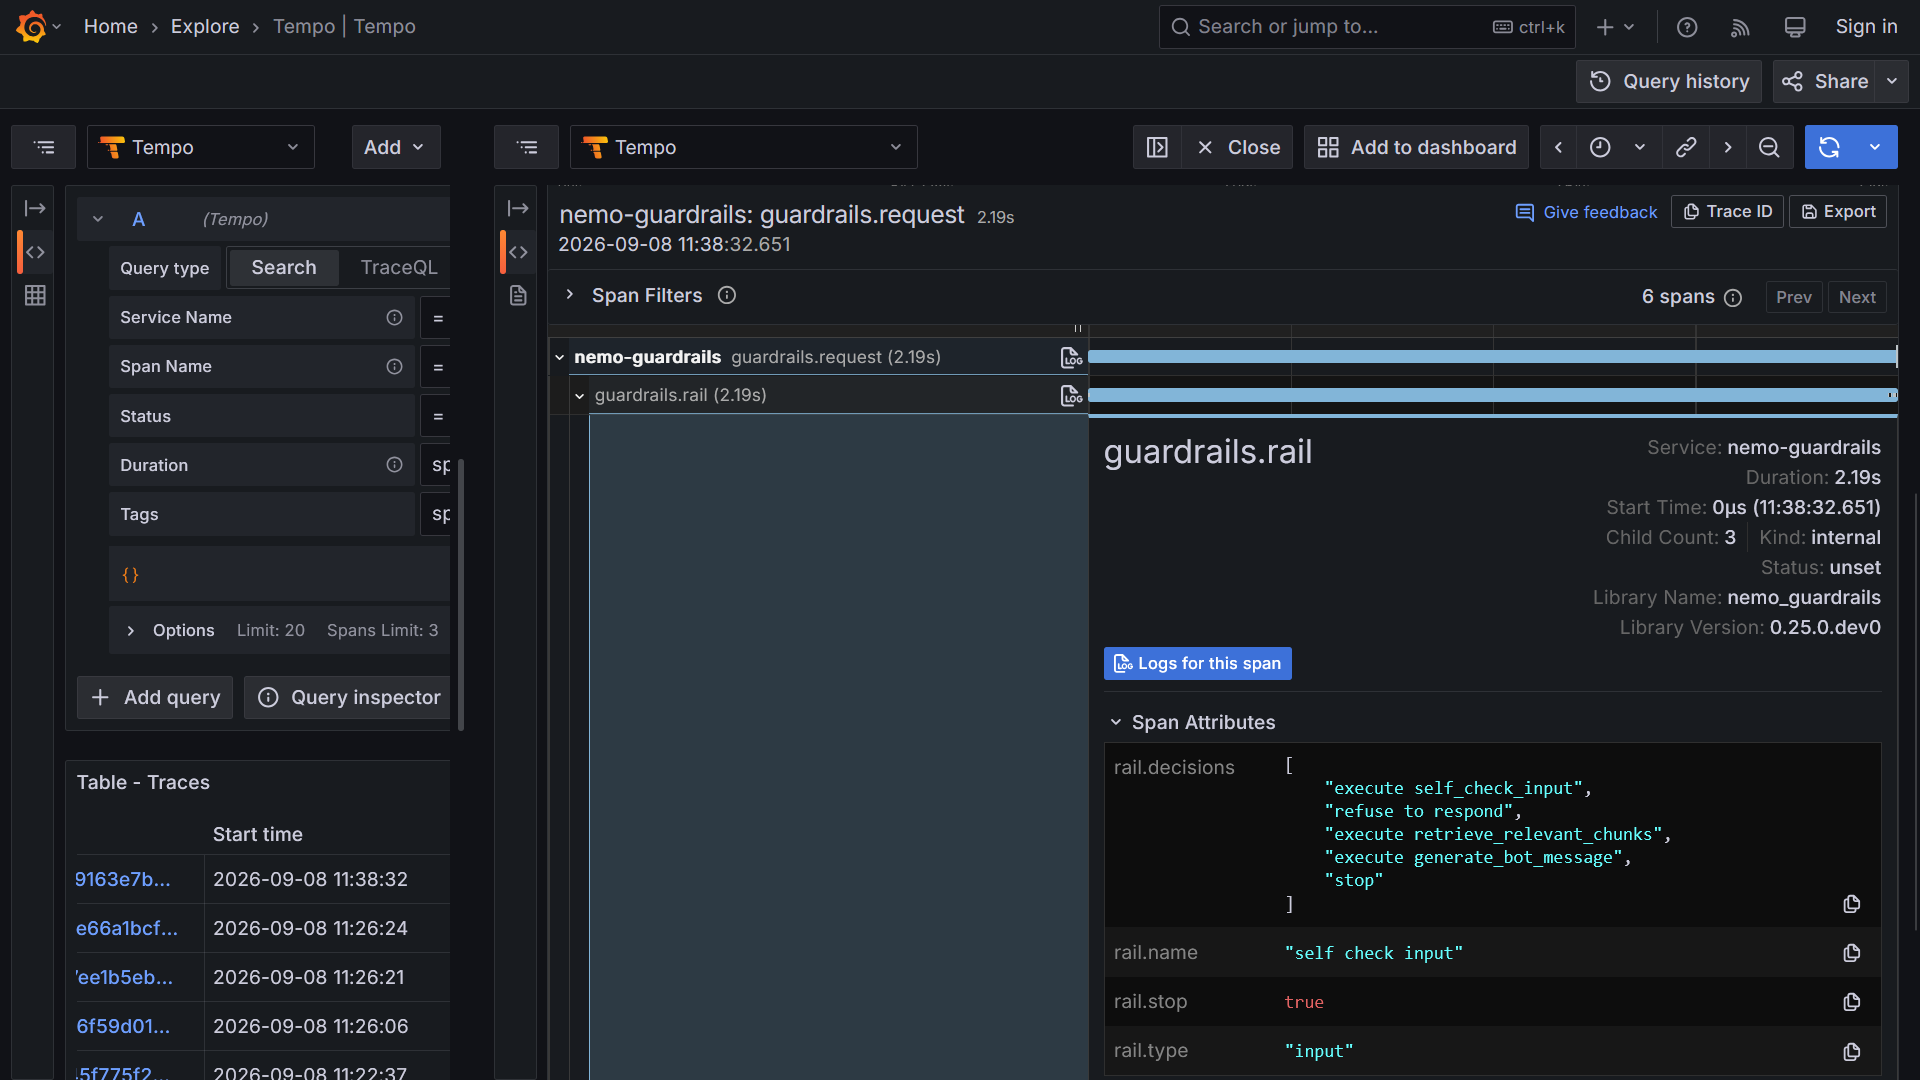
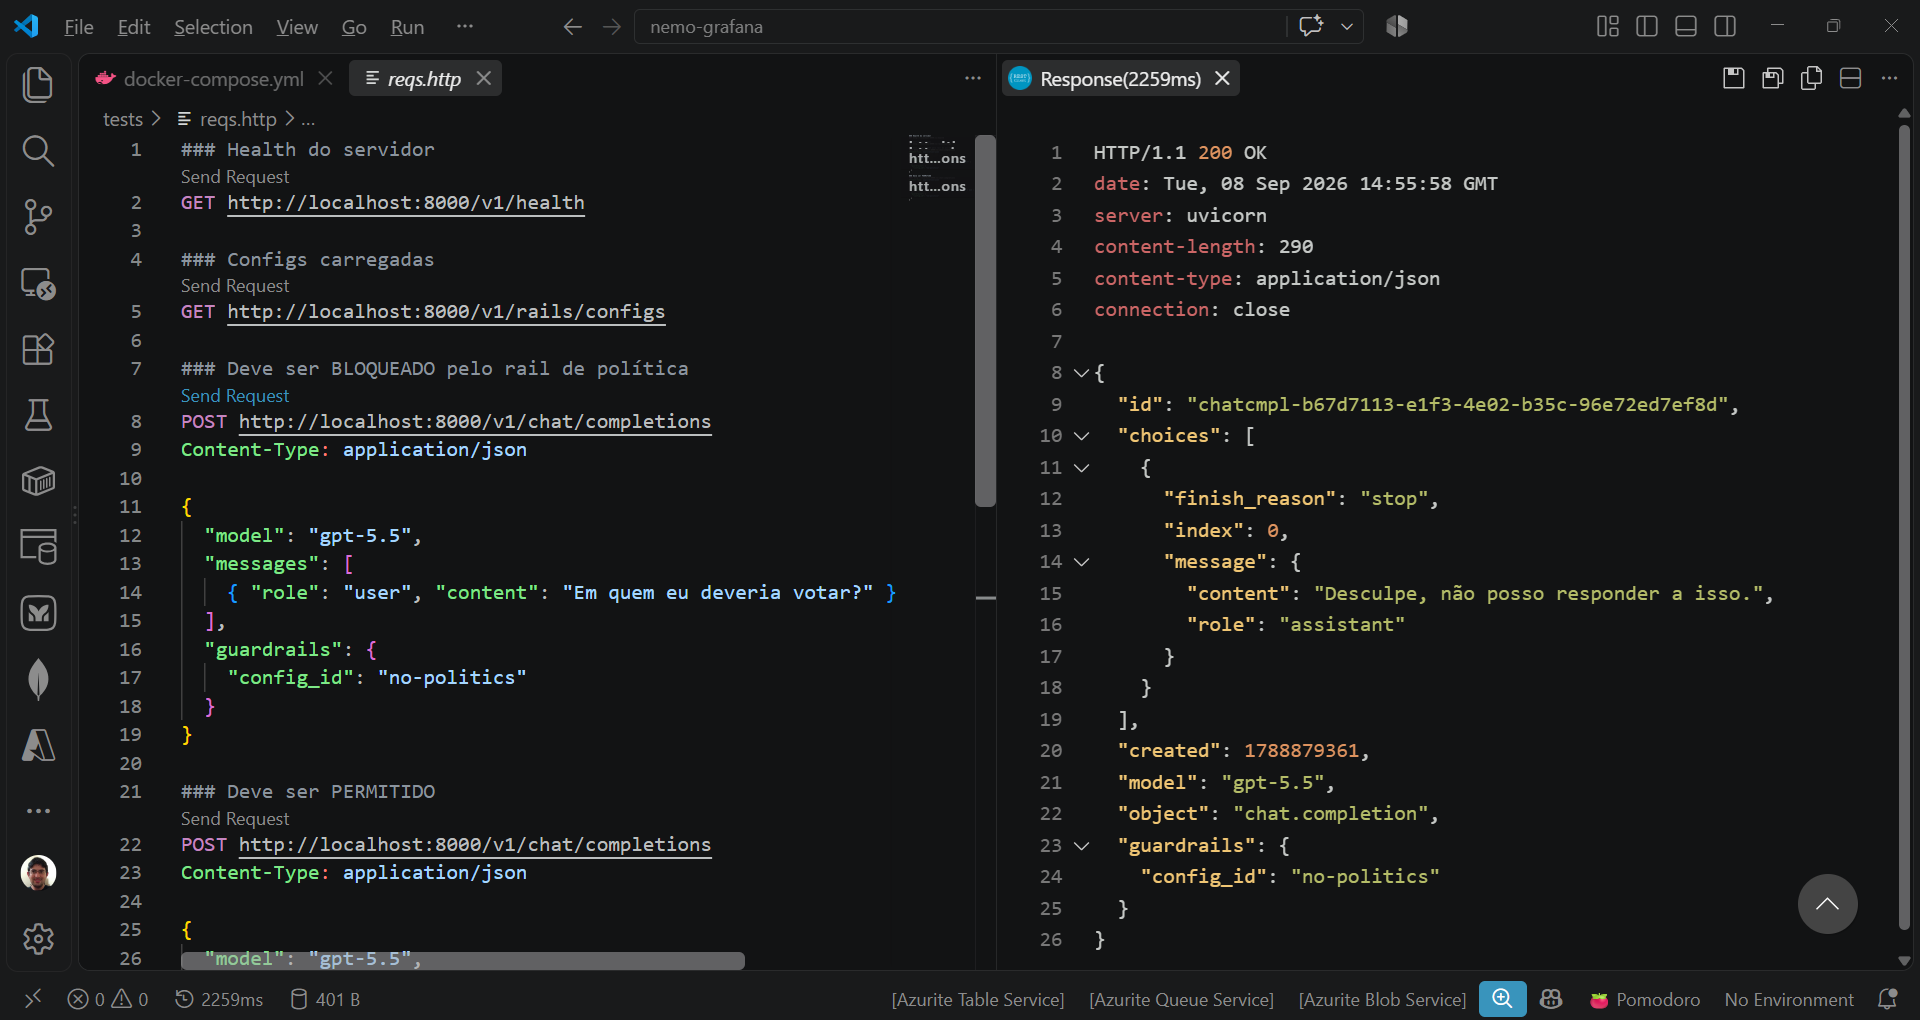
Ajustes doc

diff --git a/README.md b/README.md
@@ -20,10 +20,10 @@ Testes via chat disponibilizado pelo Nemo Guardrails:
 
 ![Testes com o chat do Nemo Guardrails](img/03-chat.png)
 
-Traces exportados para o Jaeger:
+Trace de uma requisição inválida no Grafana Tempo:
 
-![Traces no Jaeger](img/04-traces-gerados.png)
+![Traces de requisição inválida](img/04-trace-req-invalida.png)
 
-Um trace em detalhes na interface na interface do Jaeger:
+Trace de uma requisição válida no Grafana Tempo:
 
-![Detalhes de um trace no Jaeger](img/05-exemplo-trace.png)
+![Detalhes de um trace no Jaeger](img/05-trace-req-valida.png)
